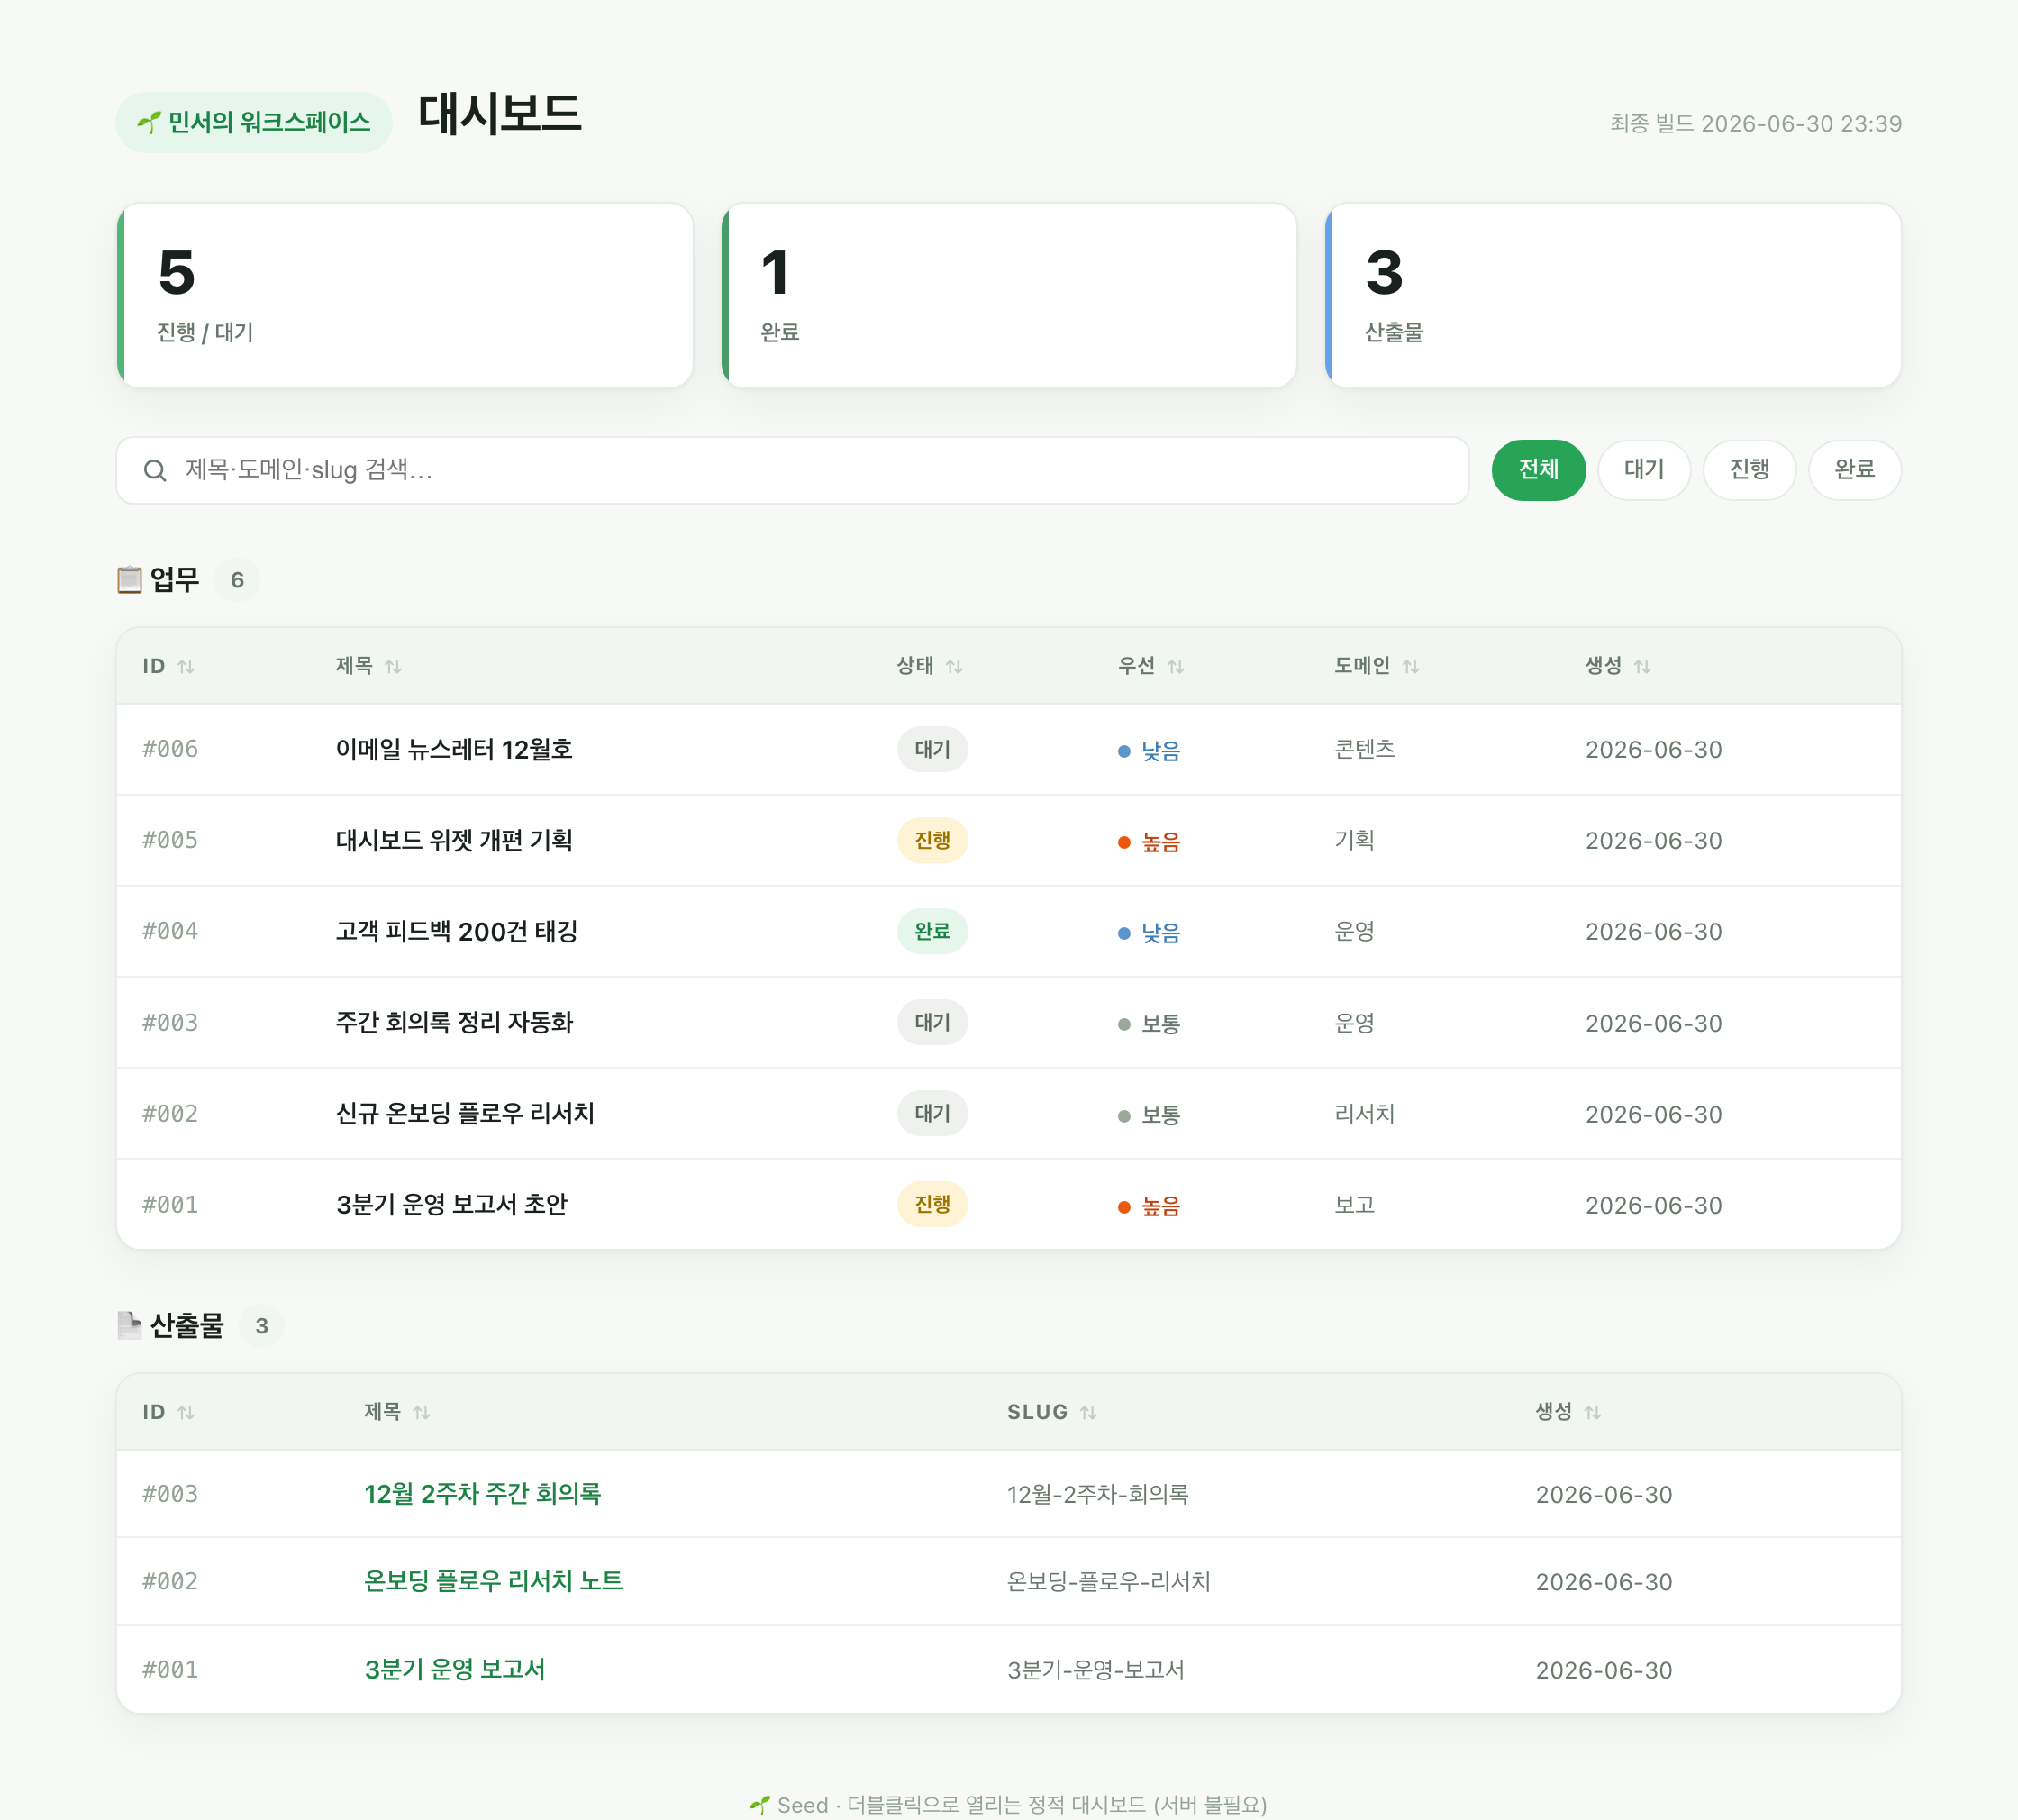
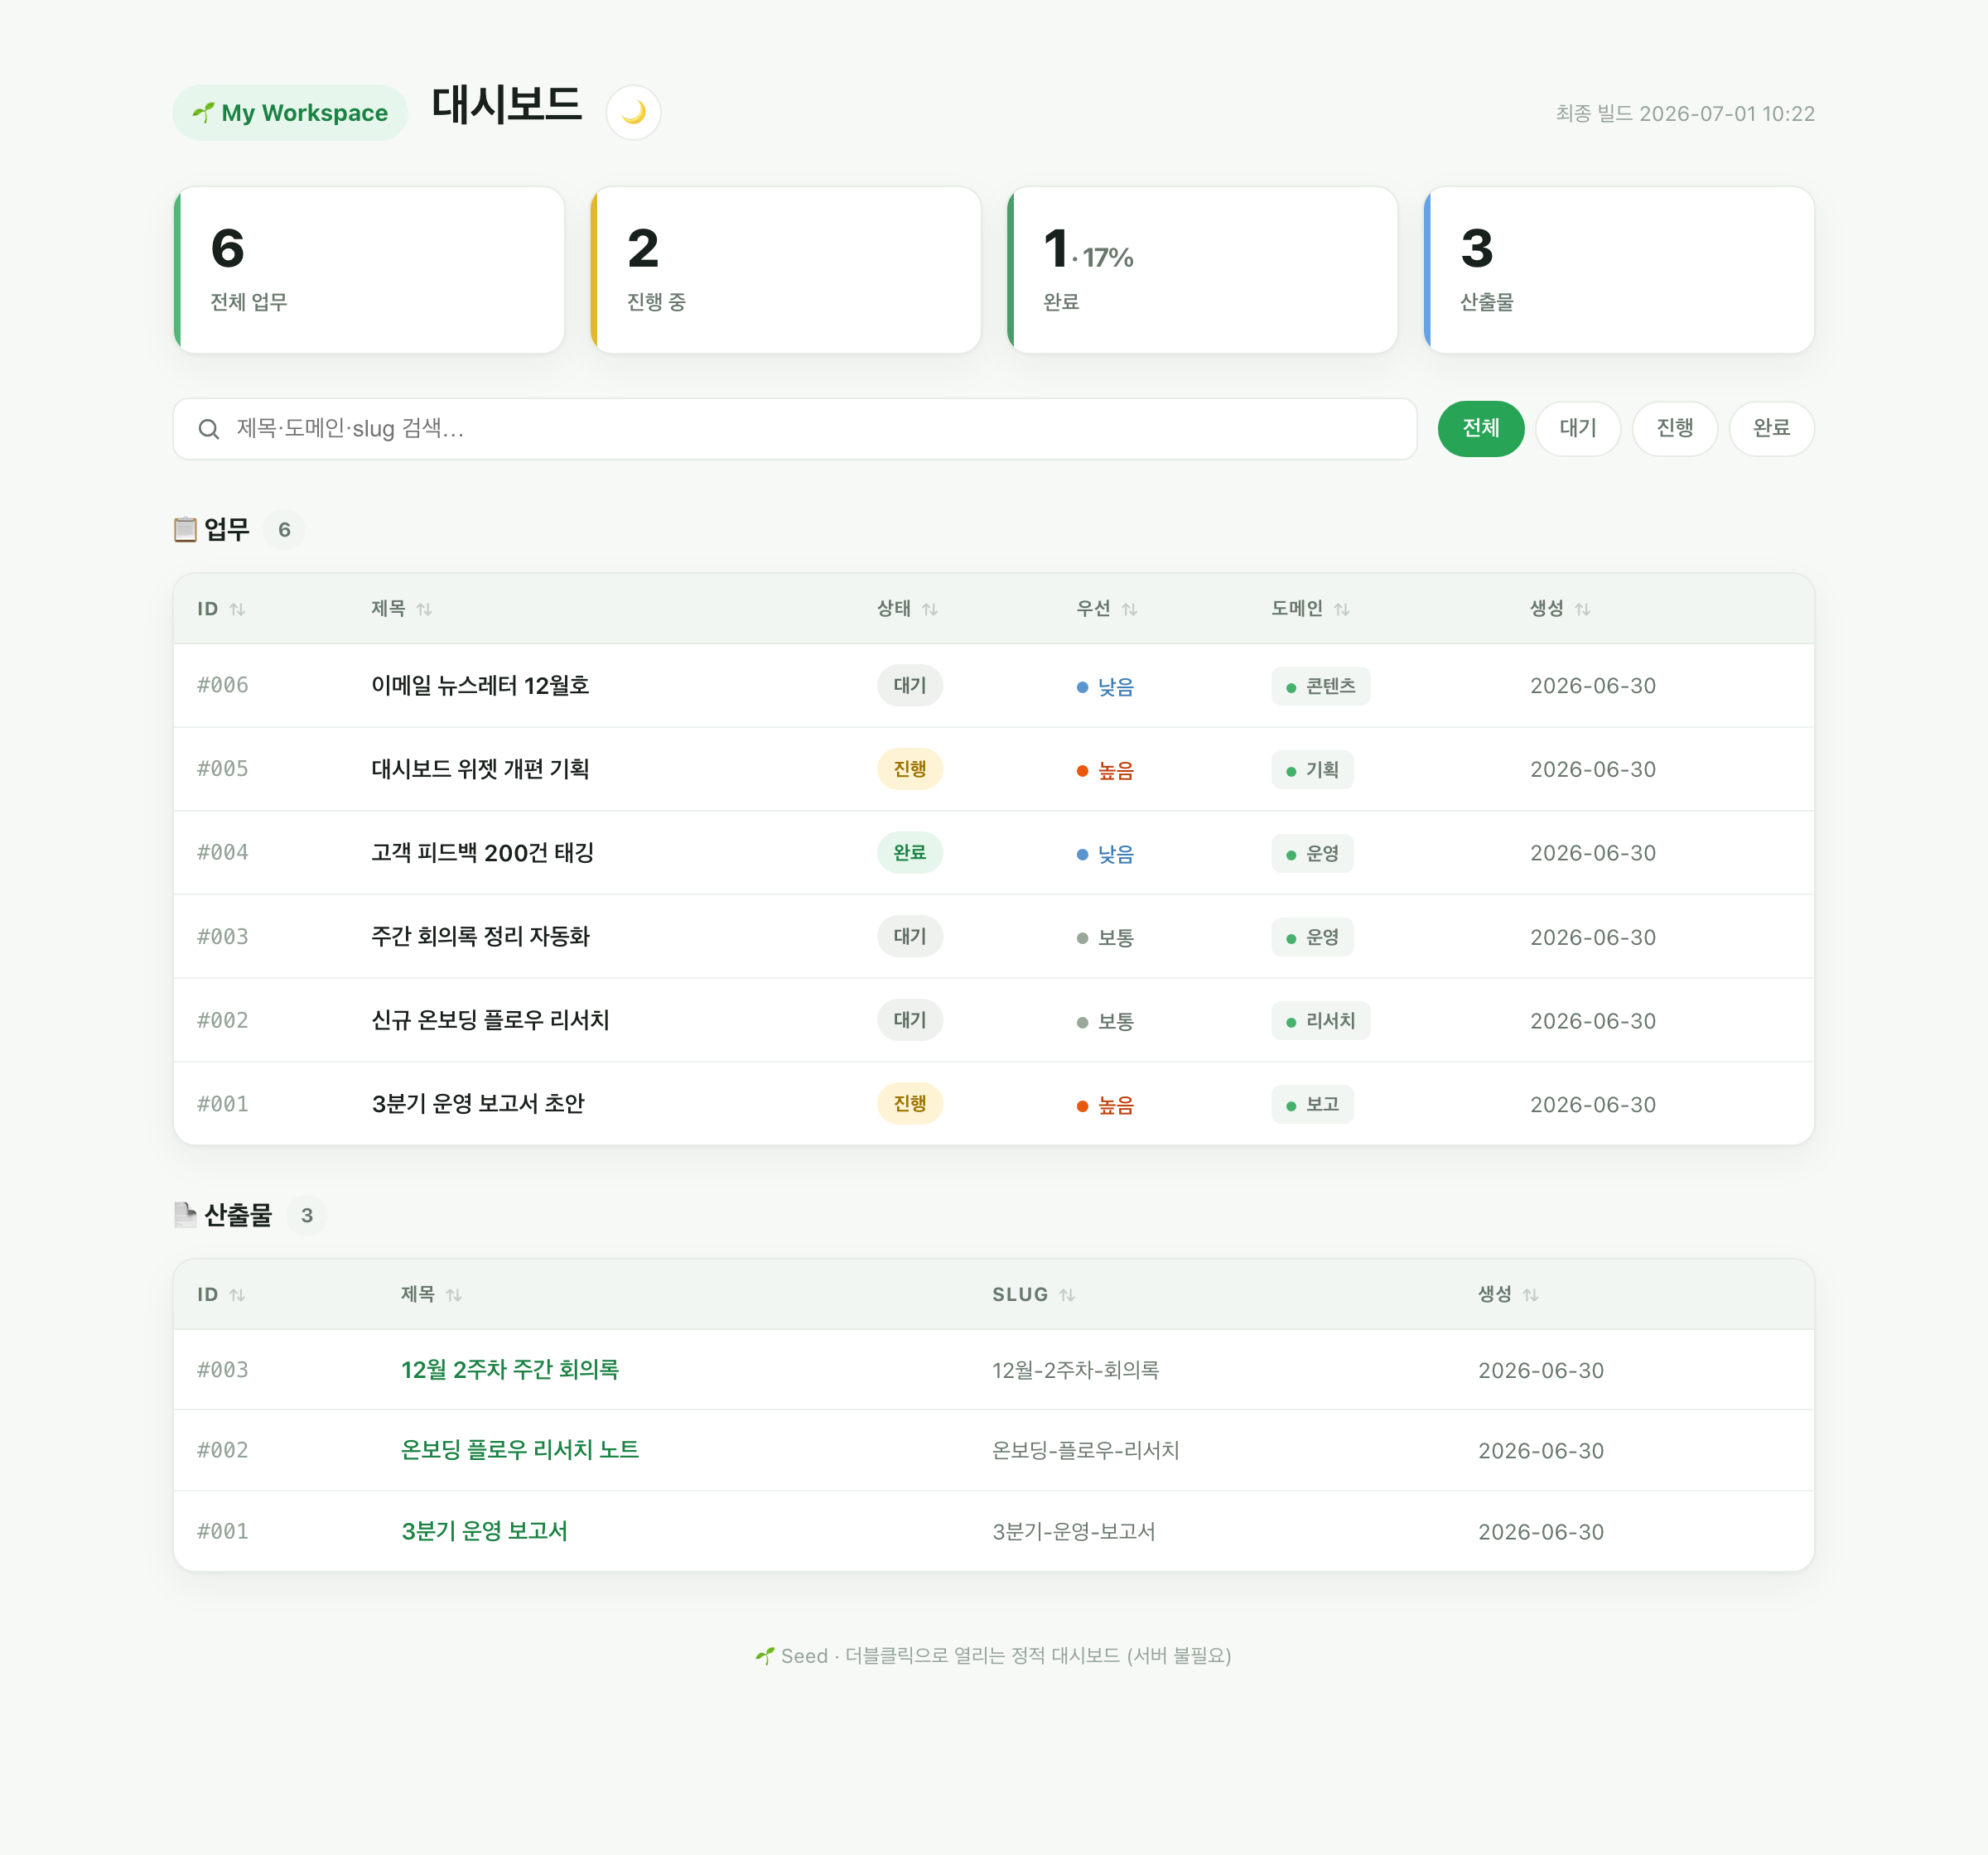
✨ chore: 오픈소스 커뮤니티 표준 완비 (CI 워크플로 제외)
- CONTRIBUTING.md · CODE_OF_CONDUCT.md(Contributor Covenant 2.1) · SECURITY.md
- .github: 이슈 템플릿(버그·기능) + config + PR 템플릿
- CHANGELOG.md(v0.1.0) · CITATION.cff
- README: CI 배지 + 기여&커뮤니티 섹션 + 대시보드 캡션 갱신
- docs/img/dashboard.png: 신규 대시보드(4스탯·완료율·다크 토글·도메인 pill)로 교체

(.github/workflows/ci.yml 은 workflow 스코프 필요로 별도 푸시 예정)

diff --git a/CONTRIBUTING.md b/CONTRIBUTING.md
@@ -1,0 +1,60 @@
+# 기여 가이드 — Seed 🌱
+
+Seed 에 관심 가져 주셔서 고맙습니다. 이 문서는 기여 절차와 지켜야 할 원칙을 정리합니다.
+
+## 먼저 읽어주세요 — 프로젝트 철학
+
+Seed 는 **작게 유지되는 것**이 목표입니다. 기능을 더하기 전에 아래 4대 원칙을 지키는지 확인해 주세요.
+
+1. **의존성 0** — `bin/ws.py`·`bin/render.py` 는 Python 표준 라이브러리만 씁니다. `pip install` 이 필요한 변경은 원칙적으로 받지 않습니다. (필요성이 크면 이슈에서 먼저 논의)
+2. **상태(state)는 DB, 지식(knowledge)은 플랫 마크다운** — 구조화 데이터는 `workspace.db`, 텍스트 지식은 `wiki/*.md`.
+3. **소스 + 렌더 동시 보존** — 산출물은 `.md` + `.html` 쌍으로.
+4. **최소 골격** — 과설계 금지. "있으면 좋은" 기능보다 "없으면 곤란한" 기능을 우선합니다.
+
+큰 변경은 **이슈로 먼저 제안**해 방향을 맞춘 뒤 PR 을 보내주세요.
+
+## 개발 환경
+
+의존성 설치가 없습니다. Python 3.9+ 만 있으면 됩니다.
+
+```bash
+git clone https://github.com/hanmariyang/seed-workspace-kit my-seed
+cd my-seed
+python bin/ws.py init                       # DB·seed.json·대시보드 생성
+python bin/ws.py add "첫 할 일" --domain 운영 --priority 1
+python bin/ws.py deliver "첫 산출물"
+open deliverables/_dashboard.html
+```
+
+## 기여 절차
+
+1. 저장소를 **fork** 하고 브랜치를 만듭니다: `feat/…`, `fix/…`, `docs/…`
+2. 변경 후 로컬에서 스모크 확인:
+   ```bash
+   python -c "import ast,glob;[ast.parse(open(f).read()) for f in glob.glob('bin/*.py')]"  # 문법
+   python bin/ws.py init && python bin/render.py                                            # 렌더 동작
+   ```
+3. **커밋 메시지**는 이모지 + 짧은 요약을 권장합니다 (예: `✨ feat: 대시보드 도메인 필터`).
+4. **PR** 을 열고 템플릿을 채워주세요. 스크린샷이 있으면 리뷰가 빨라집니다.
+
+## 코드 스타일
+
+- 도구는 **단일 파일**로 유지합니다 (`ws.py`, `render.py`).
+- 표준 라이브러리만. 외부 패키지 추가 금지.
+- 한국어 주석·문서를 기본으로 하되, 코드 식별자는 영어를 씁니다.
+- 대시보드·문서 테마는 `deliverables/_assets/theme.css` 한 곳에서 관리합니다.
+
+## 무엇을 기여하면 좋나요
+
+- 🐛 버그 수정 (렌더 깨짐, 명명 규약 엣지 케이스 등)
+- 🎨 대시보드 카탈로그(`docs/dashboard-catalog/`) 새 컨셉 — **외부 상용 서비스 이름/출처는 표기하지 않습니다**
+- 🌈 테마 액센트 추가 (`render.py` 의 `ACCENTS`)
+- 📖 문서·번역 개선
+
+## 행동 강령
+
+이 프로젝트는 [행동 강령](CODE_OF_CONDUCT.md)을 따릅니다. 참여로써 이를 준수하는 데 동의하는 것으로 간주합니다.
+
+## 라이선스
+
+기여하신 내용은 저장소와 동일한 [MIT License](LICENSE) 로 배포됩니다.

diff --git a/CODE_OF_CONDUCT.md b/CODE_OF_CONDUCT.md
@@ -1,0 +1,50 @@
+# 기여자 행동 강령 (Contributor Covenant)
+
+## 우리의 서약
+
+우리는 구성원, 기여자, 유지관리자로서 나이, 신체 크기, 장애, 민족성, 성 정체성과
+표현, 경험 수준, 교육, 사회경제적 지위, 국적, 외모, 인종, 종교, 성적 지향에
+관계없이 모두에게 괴롭힘 없는 참여 경험을 제공할 것을 서약합니다.
+
+우리는 개방적이고 환대하며 다양하고 포용적이며 건강한 커뮤니티에 기여하는
+방식으로 행동하고 상호작용할 것을 서약합니다.
+
+## 우리의 기준
+
+긍정적인 환경에 기여하는 행동의 예:
+
+- 다른 사람에게 공감과 친절 보이기
+- 서로 다른 의견·관점·경험을 존중하기
+- 건설적인 피드백을 주고받기
+- 실수에 책임을 지고 사과하며, 경험에서 배우기
+- 개인이 아닌 커뮤니티 전체에 최선인 것에 집중하기
+
+용납되지 않는 행동의 예:
+
+- 성적인 언어·이미지 사용, 원치 않는 성적 관심이나 접근
+- 트롤링, 모욕적·경멸적 댓글, 개인적·정치적 공격
+- 공개적 또는 사적인 괴롭힘
+- 명시적 허가 없이 타인의 사적 정보(주소, 이메일 등)를 게시하는 행위
+- 전문적 환경에서 부적절하다고 합리적으로 판단되는 기타 행위
+
+## 시행 책임
+
+프로젝트 유지관리자는 허용되는 행동 기준을 명확히 하고 시행하며, 부적절하거나
+위협적이거나 공격적이거나 해로운 행동에 대해 적절하고 공정한 시정 조치를
+취할 책임이 있습니다.
+
+## 적용 범위
+
+이 행동 강령은 모든 커뮤니티 공간에 적용되며, 개인이 공개된 공간에서
+커뮤니티를 공식적으로 대표할 때에도 적용됩니다.
+
+## 시행
+
+학대, 괴롭힘, 그 밖에 용납될 수 없는 행동은 유지관리자에게
+**[email redacted]** 으로 제보할 수 있습니다. 모든 신고는 신속하고
+공정하게 검토·조사되며, 신고자의 신원과 프라이버시는 존중됩니다.
+
+## 귀속
+
+이 행동 강령은 [Contributor Covenant](https://www.contributor-covenant.org) 2.1 판을
+바탕으로 합니다. 원문: https://www.contributor-covenant.org/version/2/1/code_of_conduct/

diff --git a/SECURITY.md b/SECURITY.md
@@ -1,0 +1,41 @@
+# 보안 정책
+
+## 지원 버전
+
+Seed 는 **템플릿 저장소**입니다. 항상 `main` 의 최신 상태만 유지·지원합니다.
+
+| 버전 | 지원 |
+|---|---|
+| main (최신) | ✅ |
+| 그 외 | ❌ |
+
+## 공격면에 대한 참고
+
+Seed 는 **의존성 0 · 로컬 정적 도구**입니다 — 서버를 띄우지 않고, 네트워크
+호출을 하지 않으며, 생성물은 `file://` 로 열리는 정적 HTML 입니다. 따라서
+전형적인 웹 취약점(인증·SSRF 등)의 대상이 아닙니다.
+
+그럼에도 다음과 같은 사안은 보안 이슈로 다룹니다:
+
+- 사용자 입력(업무 제목·도메인·산출물 본문)이 생성 HTML 에서 **이스케이프되지 않아
+  스크립트가 실행되는 경우** (저장형 XSS 성격)
+- 명명 규약(slugify)이 경로를 벗어나 **의도치 않은 파일을 덮어쓰는 경우** (경로 탈출)
+- 그 밖에 로컬 파일·데이터를 손상시킬 수 있는 결함
+
+## 제보 방법
+
+취약점을 발견하면 **공개 이슈로 올리지 말고** 아래로 알려주세요:
+
+- **비공개 제보(권장)**: GitHub 저장소의 **Security → Report a vulnerability**
+  ([GitHub Security Advisories](https://docs.github.com/code-security/security-advisories))
+- **이메일**: [email redacted]
+
+가능하면 재현 절차, 영향, 제안 패치를 포함해 주세요.
+
+## 대응
+
+- 접수 확인: **72시간 이내**
+- 유효성 검토·수정 계획 공유: **7일 이내** (사안 규모에 따라 변동)
+- 수정 후 크레딧을 원하시면 릴리스 노트에 반영합니다.
+
+신고자의 신원과 프라이버시는 존중됩니다.

diff --git a/.github/ISSUE_TEMPLATE/bug_report.md b/.github/ISSUE_TEMPLATE/bug_report.md
@@ -1,0 +1,26 @@
+---
+name: 🐛 버그 리포트
+about: 재현 가능한 문제를 알려주세요
+title: "[Bug] "
+labels: bug
+---
+
+## 무슨 일이 있었나요
+<!-- 실제로 일어난 일 -->
+
+## 기대한 동작
+<!-- 원래 이래야 했다 -->
+
+## 재현 절차
+1.
+2.
+3.
+
+## 환경
+- OS:
+- Python 버전: (`python --version`)
+- 브라우저(대시보드/문서 관련이면):
+- Seed 커밋/버전:
+
+## 스크린샷·로그
+<!-- 있으면 첨부. 대시보드/문서 렌더 문제면 캡처가 큰 도움이 됩니다 -->

diff --git a/CHANGELOG.md b/CHANGELOG.md
@@ -1,0 +1,24 @@
+# 변경 이력
+
+이 프로젝트의 주요 변경을 기록합니다. 형식은 [Keep a Changelog](https://keepachangelog.com/ko/1.1.0/),
+버전은 [유의적 버전(SemVer)](https://semver.org/lang/ko/)을 따릅니다.
+
+## [Unreleased]
+
+## [0.1.0] — 2026-07-01
+
+첫 공개 릴리스. 🌱
+
+### 추가됨
+- **인터뷰 온보딩** — `/onboard` 로 6~8문항 인터뷰 후 워크스페이스 맞춤 생성 (`workspace-architect` 에이전트)
+- **무의존 도구** — `bin/ws.py`(SQLite CLI) · `bin/render.py`(md→html 렌더러 + 대시보드 빌더), 표준 라이브러리만
+- **코어 스킬** — `/task` · `/deliver` · `/view`
+- **산출물 이중 저장** — 모든 산출물은 `.md`(소스) + `.html`(렌더) 쌍으로, 저장 시 대시보드 자동 재빌드
+- **대시보드 카탈로그** — 같은 데이터를 10가지 컨셉(테이블·칸반·갤러리·차트·타임라인·기여 그래프·다크 집중·리뷰 등)으로 보여주는 시안 모음 (`docs/dashboard-catalog/`)
+- **테마 커스텀** — `seed.json` 의 `theme.accent`(6종) / `theme.mode`(light·dark) + 대시보드 라이트/다크 토글
+- **파비콘** — 🌱 새싹 마크 (인라인 SVG, 자기완결)
+- **문서** — README · DESIGN · 프로젝트 포스터(HTML)
+- **커뮤니티** — LICENSE(MIT) · CONTRIBUTING · CODE_OF_CONDUCT · SECURITY · 이슈/PR 템플릿 · CI 스모크
+
+[Unreleased]: https://github.com/hanmariyang/seed-workspace-kit/compare/v0.1.0...HEAD
+[0.1.0]: https://github.com/hanmariyang/seed-workspace-kit/releases/tag/v0.1.0

diff --git a/.github/PULL_REQUEST_TEMPLATE.md b/.github/PULL_REQUEST_TEMPLATE.md
@@ -1,0 +1,22 @@
+## 변경 요약
+<!-- 무엇을, 왜 바꿨는지 한두 문장 -->
+
+## 관련 이슈
+<!-- 예: Closes #12 -->
+
+## 종류
+- [ ] 🐛 버그 수정
+- [ ] ✨ 기능 추가
+- [ ] 🎨 대시보드 카탈로그/테마
+- [ ] 📖 문서
+- [ ] ♻️ 리팩터링
+
+## 체크리스트
+- [ ] **의존성 0** 을 지켰다 (표준 라이브러리만, `pip install` 없음)
+- [ ] 상태=DB / 지식=마크다운 구조를 깨지 않았다
+- [ ] 로컬 스모크 통과: `python bin/ws.py init && python bin/render.py`
+- [ ] (카탈로그/테마면) **외부 상용 서비스 이름·출처를 표기하지 않았다**
+- [ ] 필요한 문서를 갱신했다
+
+## 스크린샷
+<!-- UI/대시보드/문서 변경이면 before/after 캡처 -->

diff --git a/.github/ISSUE_TEMPLATE/feature_request.md b/.github/ISSUE_TEMPLATE/feature_request.md
@@ -1,0 +1,21 @@
+---
+name: ✨ 기능 제안
+about: 새 기능이나 개선 아이디어를 제안하세요
+title: "[Feature] "
+labels: enhancement
+---
+
+## 해결하려는 문제
+<!-- 어떤 불편/필요에서 출발했나요 -->
+
+## 제안하는 방식
+<!-- 어떻게 풀면 좋을지 -->
+
+## 원칙 부합 확인
+<!-- Seed 는 작게 유지됩니다. 아래를 고려했는지 -->
+- [ ] **의존성 0** 을 지킨다 (표준 라이브러리만)
+- [ ] 상태=DB / 지식=마크다운 구조를 깨지 않는다
+- [ ] "없으면 곤란한" 기능이다 (과설계 아님)
+
+## 대안·참고
+<!-- 고려한 다른 방법이나 참고 자료 -->

diff --git a/README.md b/README.md
@@ -7,6 +7,7 @@
 *Plant once. Grow your own workspace.*
 
 [![template](https://img.shields.io/badge/use_this-template-27a456?style=flat-square)](https://github.com/hanmariyang/seed-workspace-kit/generate)
+[![CI](https://github.com/hanmariyang/seed-workspace-kit/actions/workflows/ci.yml/badge.svg)](https://github.com/hanmariyang/seed-workspace-kit/actions/workflows/ci.yml)
 [![deps](https://img.shields.io/badge/dependencies-0-1c8345?style=flat-square)](#4대-원칙)
 [![license](https://img.shields.io/badge/license-MIT-69786d?style=flat-square)](LICENSE)
 
@@ -20,7 +21,7 @@
 
 ![대시보드](docs/img/dashboard.png)
 
-> 검색 · 상태 필터 · 컬럼 정렬이 들어간 정적 대시보드. 데이터가 HTML에 박혀 있어 `file://` 더블클릭만으로 동작 (서버 불필요).
+> 통계(전체·진행·완료율·산출물) · 검색 · 상태 필터 · 컬럼 정렬 · 라이트/다크 토글이 들어간 정적 대시보드. 데이터가 HTML에 박혀 있어 `file://` 더블클릭만으로 동작 (서버 불필요). 액센트 색·기본 모드는 `seed.json` 의 `theme` 한 줄로 바뀝니다.
 
 | 산출물 문서 (md→html) | 라이브 데모 |
 |---|---|
@@ -171,6 +172,20 @@ open deliverables/_dashboard.html
 - 라이선스: [`LICENSE`](LICENSE) (MIT)
 
 자세한 작동 원리는 `PROGRAM.md`, 정체성·규칙은 `CLAUDE.md`.
+
+---
+
+## 기여 & 커뮤니티
+
+Seed 는 **작게 유지되는 것**을 목표로 합니다. 기여를 환영해요 🌱
+
+- 🤝 기여 방법: [`CONTRIBUTING.md`](CONTRIBUTING.md) — 개발 환경·브랜치·PR 규칙, 지켜야 할 4대 원칙
+- 📜 행동 강령: [`CODE_OF_CONDUCT.md`](CODE_OF_CONDUCT.md) — Contributor Covenant 2.1
+- 🔒 보안 제보: [`SECURITY.md`](SECURITY.md) — 취약점은 공개 이슈 대신 비공개 채널로
+- 🗒️ 변경 이력: [`CHANGELOG.md`](CHANGELOG.md)
+- 💬 질문·아이디어: [Discussions](https://github.com/hanmariyang/seed-workspace-kit/discussions)
+
+기여 전 큰 변경은 **이슈로 먼저 제안**해 방향을 맞춰주세요.
 
 ---
 